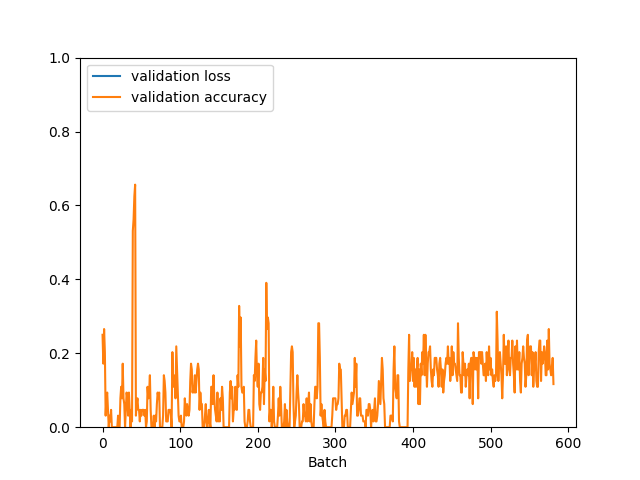
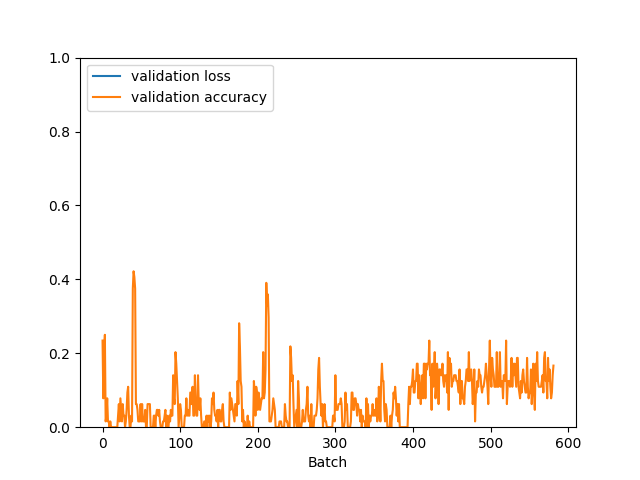
more training

Changed region(s): [[0.1562, 0.375, 0.875, 0.9062], [0.4062, 0.625, 0.4375, 0.6562]]

diff --git a/deep_learning/train.py b/deep_learning/train.py
@@ -8,11 +8,11 @@ from util import *
 def train(model, images, labels, classes):
   model.train()
   loss_function = nn.CrossEntropyLoss()
-  optim = torch.optim.Adam(model.parameters(), lr=1e-3, weight_decay=1e-5)
+  optim = torch.optim.Adam(model.parameters(), lr=1e-4, weight_decay=1e-5)
 
   losses, accuracies = [], []
   BS = 256
-  epochs = 200
+  epochs = 250
 
   for epoch in range(epochs):
     print("[+] Epoch %d/%d"%(epoch+1,epochs))
